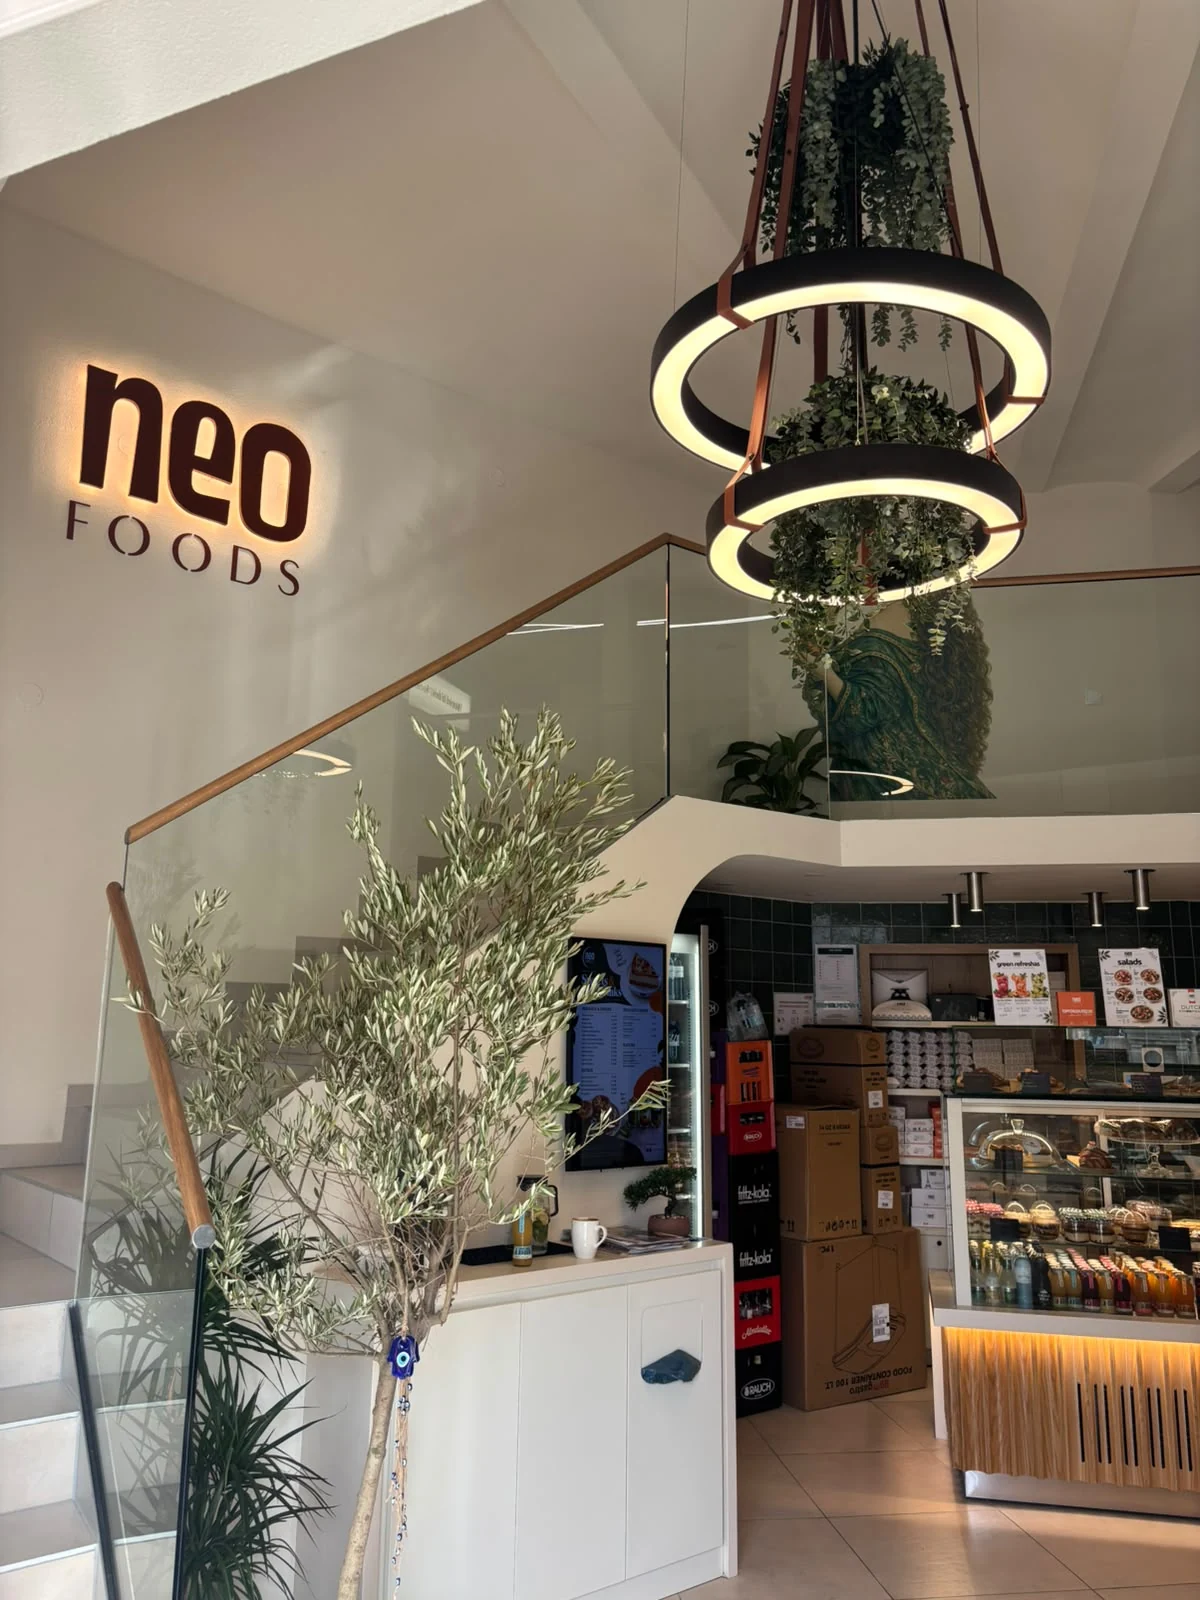
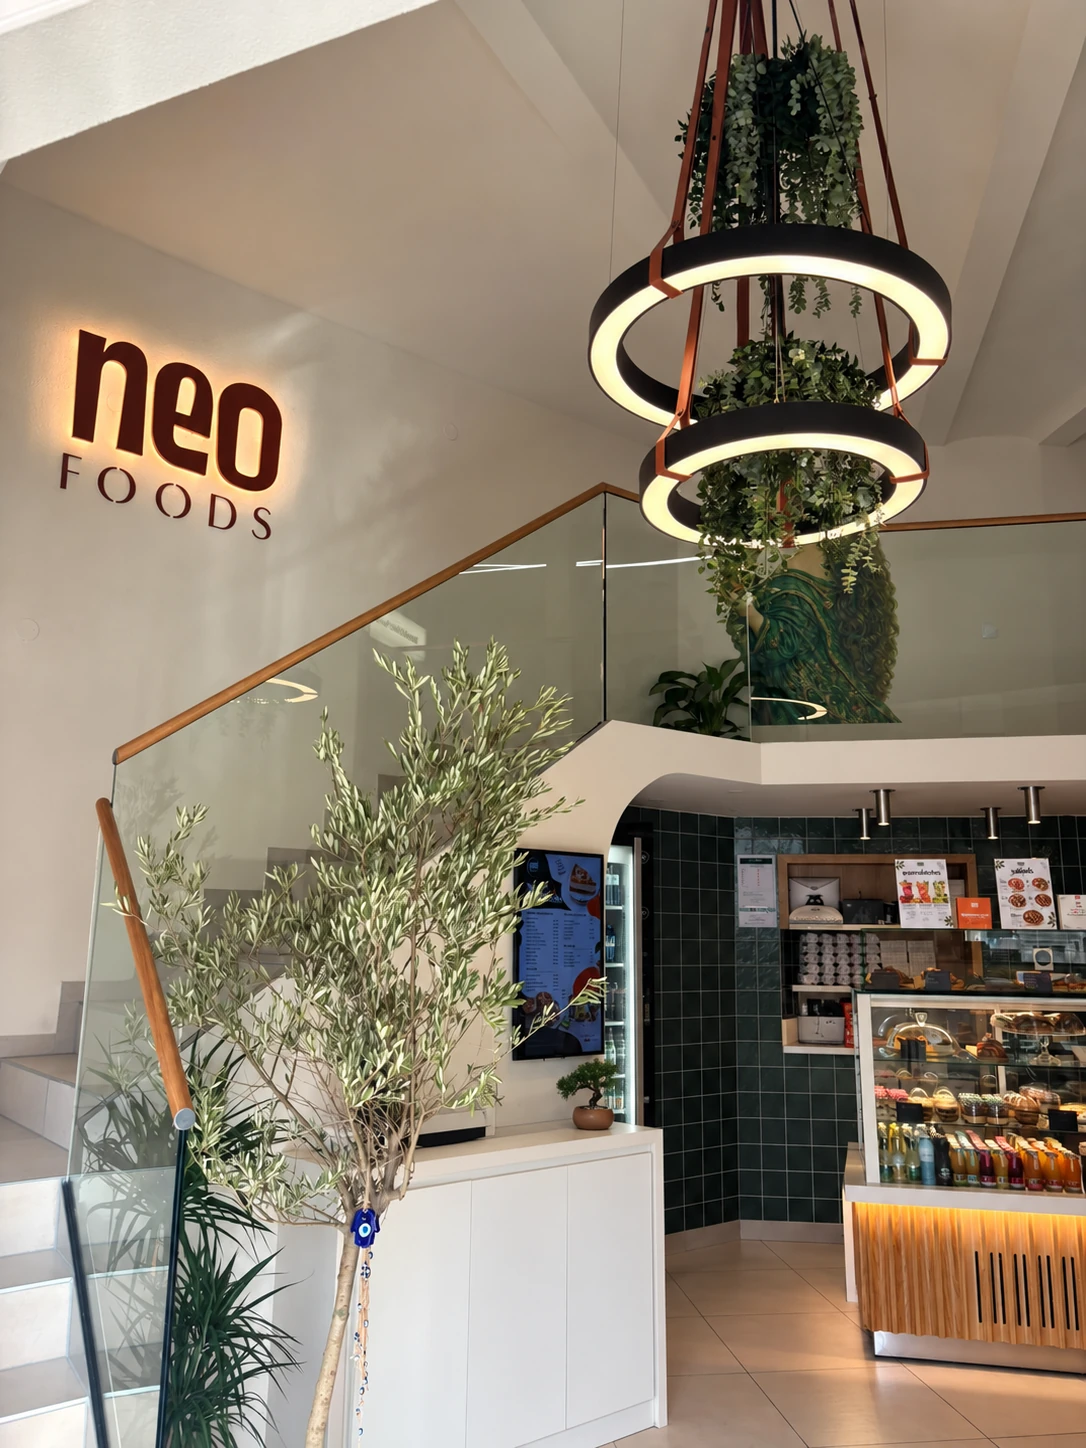
Startseitenbild durch aufgeraeumten Innenraum ersetzen

diff --git a/index.html b/index.html
@@ -1,6 +1,6 @@
 <!doctype html><html lang="de"><head><meta charset="utf-8"><meta name="viewport" content="width=device-width,initial-scale=1"><meta name="theme-color" content="#103d32"><meta name="description" content="Frühstück, Croissants, Salate, Desserts, Matcha, Kaffee, Refresher und Eis bei NEO FOODS Vienna. Unsere Karten einfach durchblättern."><title>Unsere Karten | NEO FOODS Vienna</title><link rel="stylesheet" href="home-v10.css?v=18"></head><body>
 <header class="bar"><a href="index.html" class="brand">NEO FOODS · VIENNA</a><nav aria-label="Hauptnavigation"><a href="#aktionen">Aktionen</a><a href="#speisen">Speisen</a><a href="#getraenke">Getränke</a><a href="#eis">Eis</a></nav></header>
-<section class="hero" aria-labelledby="welcome"><div class="intro"><div class="brand-lockup"><img class="logo" src="neo-logo.png?v=11" alt="NEO FOODS" width="180" height="130"></div><p class="eyebrow">Good food. Good mood.</p><h1 id="welcome">Guter Geschmack.<br>Gute Momente.</h1><p>Dein Frühstück. Dein Lieblingsdrink.<br>Entdecke unsere Karten und blättere los.</p></div><div class="hero-photo"><img src="interior.webp?v=14" alt="NEO FOODS Vienna: Innenraum mit beleuchtetem Logo, Ringleuchten, Treppe und Theke" width="1200" height="1600" fetchpriority="high"></div></section>
+<section class="hero" aria-labelledby="welcome"><div class="intro"><div class="brand-lockup"><img class="logo" src="neo-logo.png?v=11" alt="NEO FOODS" width="180" height="130"></div><p class="eyebrow">Good food. Good mood.</p><h1 id="welcome">Guter Geschmack.<br>Gute Momente.</h1><p>Dein Frühstück. Dein Lieblingsdrink.<br>Entdecke unsere Karten und blättere los.</p></div><div class="hero-photo"><img src="interior.webp?v=19" alt="NEO FOODS Vienna: Innenraum mit beleuchtetem Logo, Ringleuchten, Treppe und Theke" width="1086" height="1448" fetchpriority="high"></div></section>
 <section class="action" id="aktionen" aria-labelledby="action-title">
   <div class="action-copy"><p class="eyebrow">UNSERE AKTION</p><h2 id="action-title">Pastel de Nata<br><span>+ Kaffee</span></h2><p class="action-description">Deine kleine Auszeit am Abend.</p><div class="action-offer"><strong>5,50 €</strong><span>17–21 Uhr</span></div><a class="action-link" href="#speisen">Unsere Karten entdecken <span aria-hidden="true">↓</span></a><div class="social-links"><a href="https://www.instagram.com/neo_foods_vienna/" target="_blank" rel="noopener">Instagram ↗</a><a href="https://www.tiktok.com/@neo_foods_vienna" target="_blank" rel="noopener">TikTok ↗</a></div></div>
   <div class="action-film"><video controls playsinline preload="metadata" aria-label="So entsteht unser Pastel de Nata"><source src="neo-nata.mp4#t=0.1" type="video/mp4"><a href="neo-nata.mp4">Video ansehen</a></video><p>NEO Moments · Nata in the making</p></div>
